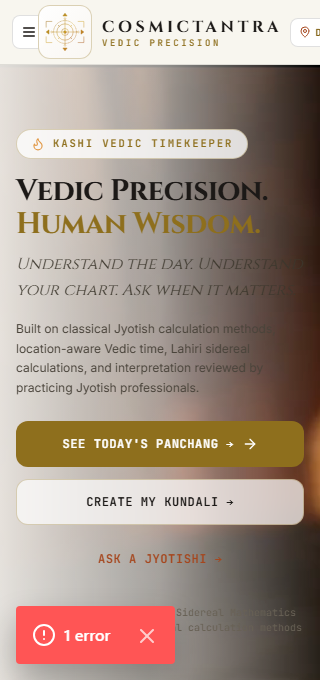
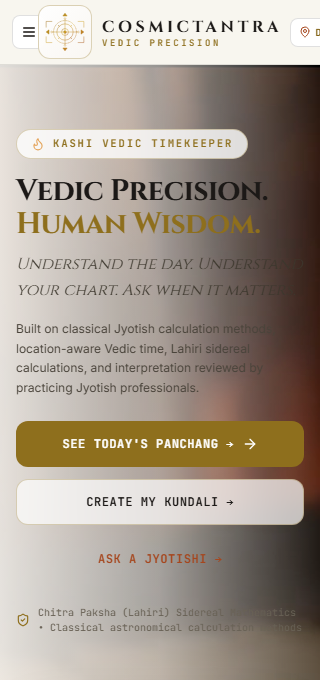
fix(ssr): resolve react hydration mismatch by syncing client preferences on mount

Changed region(s): [[0.0312, 0.8647, 1.0, 1.0], [0.9375, 0.5868, 1.0, 0.7721]]

diff --git a/src/app/page.tsx b/src/app/page.tsx
@@ -40,24 +40,10 @@ export default function AppLandingPage() {
   const [panchangData, setPanchangData] = useState(() => calculatePanchang(new Date(), DEFAULT_CITY));
   const [kundaliData, setKundaliData] = useState(null);
 
-  // Day/Night & Language State (Chiti UDS v3 compliant — Light/Day mode default)
-  const [theme, setTheme] = useState(() => {
-    if (typeof window === 'undefined') return 'light';
-    try {
-      return localStorage.getItem('cosmictantra_theme') || 'light';
-    } catch {
-      return 'light';
-    }
-  });
-
-  const [lang, setLang] = useState(() => {
-    if (typeof window === 'undefined') return 'en';
-    try {
-      return localStorage.getItem('cosmictantra_lang') || 'en';
-    } catch {
-      return 'en';
-    }
-  });
+  // Day/Night & Language State (Chiti UDS v3 compliant — Light/Day mode default, SSR-safe)
+  const [theme, setTheme] = useState('light');
+  const [lang, setLang] = useState('en');
+  const [isClientMounted, setIsClientMounted] = useState(false);
 
   // Modals state
   const [isCityModalOpen, setIsCityModalOpen] = useState(false);
@@ -66,8 +52,24 @@ export default function AppLandingPage() {
   const [isConsultationModalOpen, setIsConsultationModalOpen] = useState(false);
   const [consultationPrompt, setConsultationPrompt] = useState('');
 
+  // Sync client-persisted preferences on mount to eliminate SSR hydration mismatch
+  useEffect(() => {
+    setIsClientMounted(true);
+    try {
+      const savedTheme = localStorage.getItem('cosmictantra_theme');
+      if (savedTheme === 'light' || savedTheme === 'dark') {
+        setTheme(savedTheme);
+      }
+      const savedLang = localStorage.getItem('cosmictantra_lang');
+      if (savedLang === 'en' || savedLang === 'hi') {
+        setLang(savedLang);
+      }
+    } catch {}
+  }, []);
+
   // Sync theme class to root html
   useEffect(() => {
+    if (!isClientMounted) return;
     const root = document.documentElement;
     if (theme === 'light') {
       root.classList.remove('dark');
@@ -79,14 +81,15 @@ export default function AppLandingPage() {
     try {
       localStorage.setItem('cosmictantra_theme', theme);
     } catch {}
-  }, [theme]);
+  }, [theme, isClientMounted]);
 
-  // Sync language
+  // Sync language to localStorage
   useEffect(() => {
+    if (!isClientMounted) return;
     try {
       localStorage.setItem('cosmictantra_lang', lang);
     } catch {}
-  }, [lang]);
+  }, [lang, isClientMounted]);
 
   // Update panchang when city changes
   useEffect(() => {
